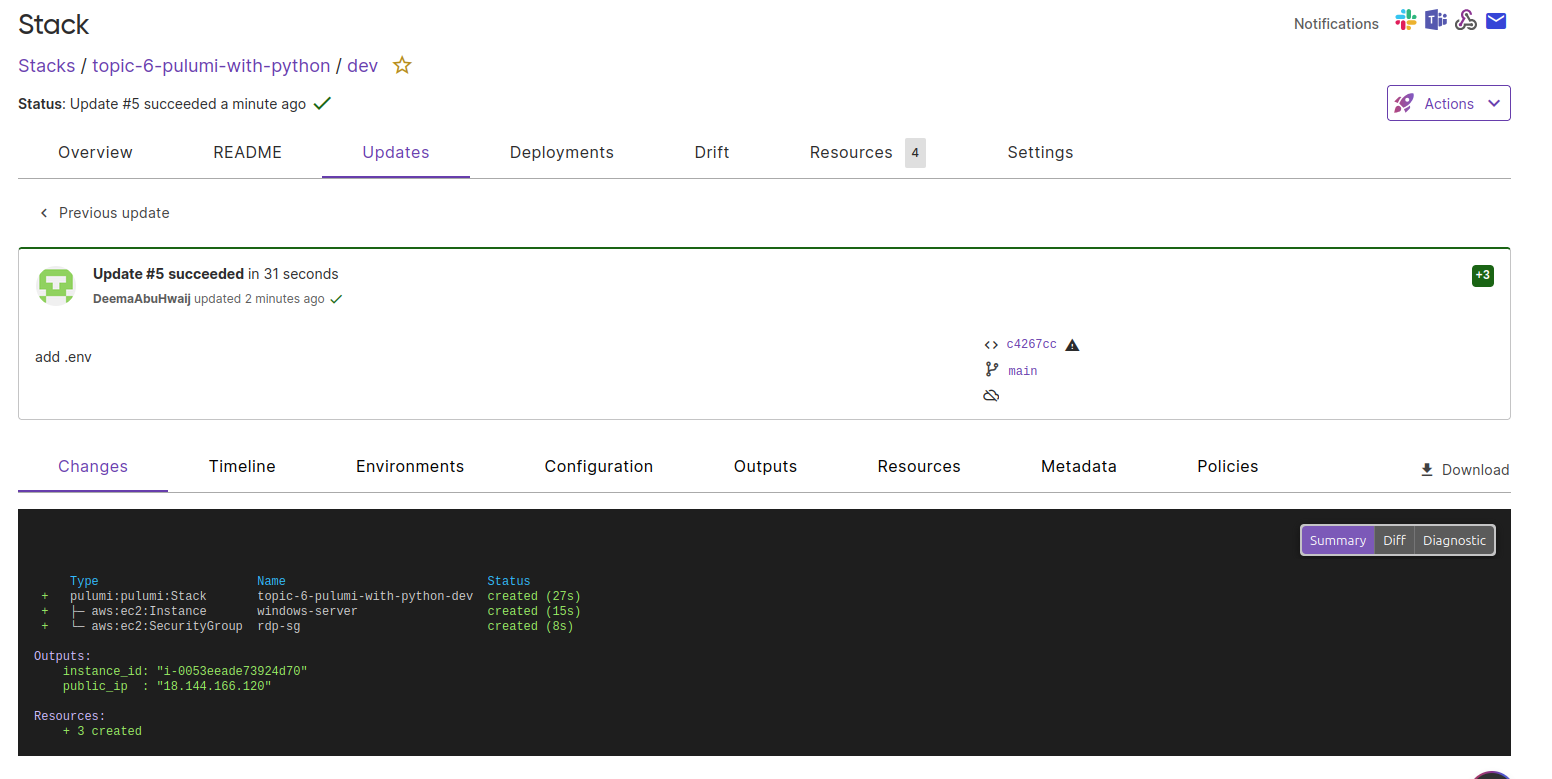
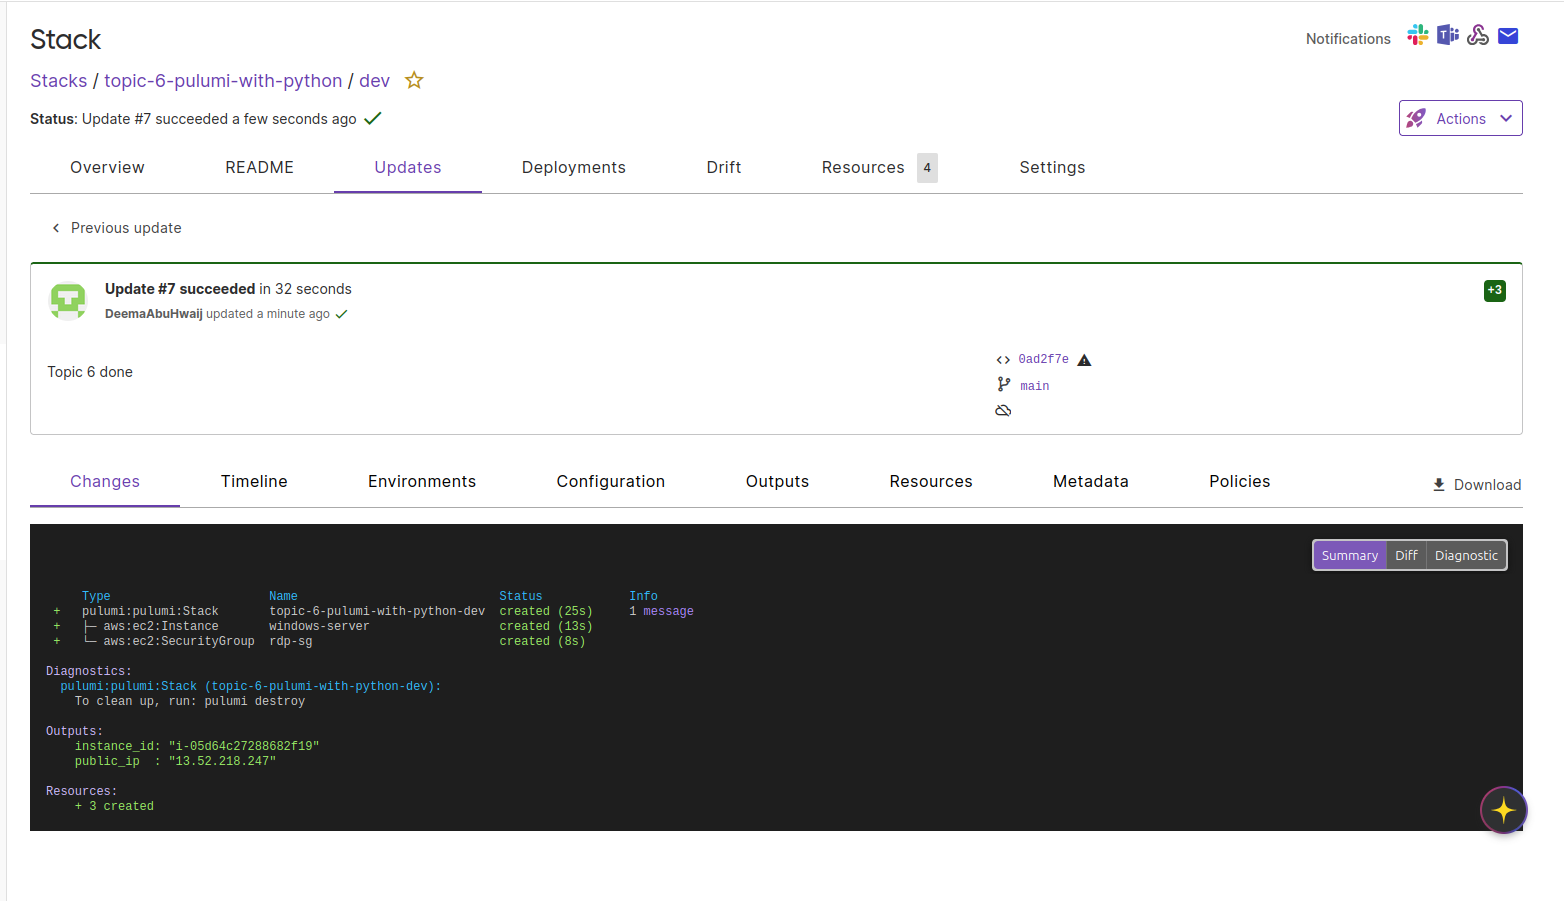
Topic 6 done

diff --git a/Topic-6-Pulumi-with-Python/README.md b/Topic-6-Pulumi-with-Python/README.md
@@ -101,6 +101,8 @@ This project provisions a **Windows EC2 instance** on AWS using infrastructure a
 ## Screenshot
 
 The deployment result is shown in `docs/Deployment-screenshot.png`.
+The outputs are shown in `docs/Outputs-screenshot.png`.
+
 
 ---
 
